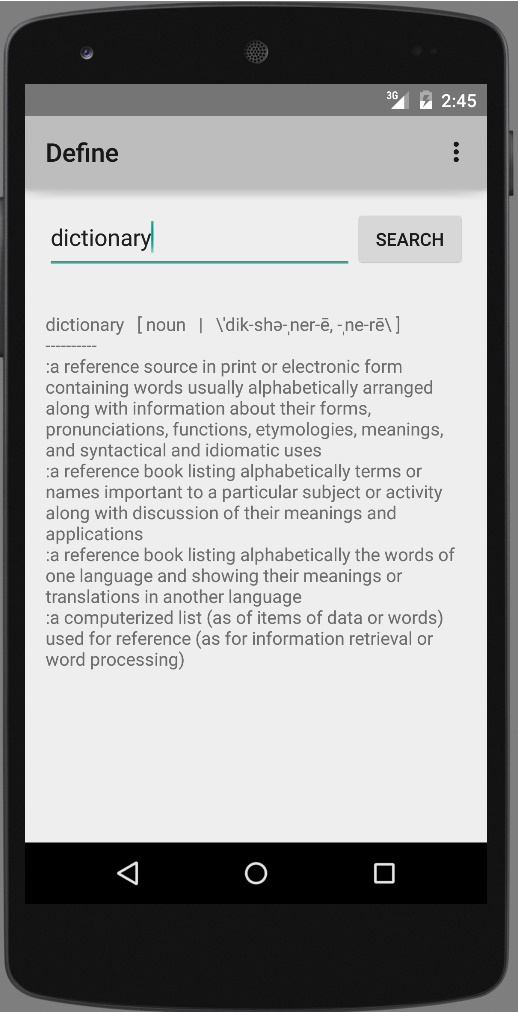
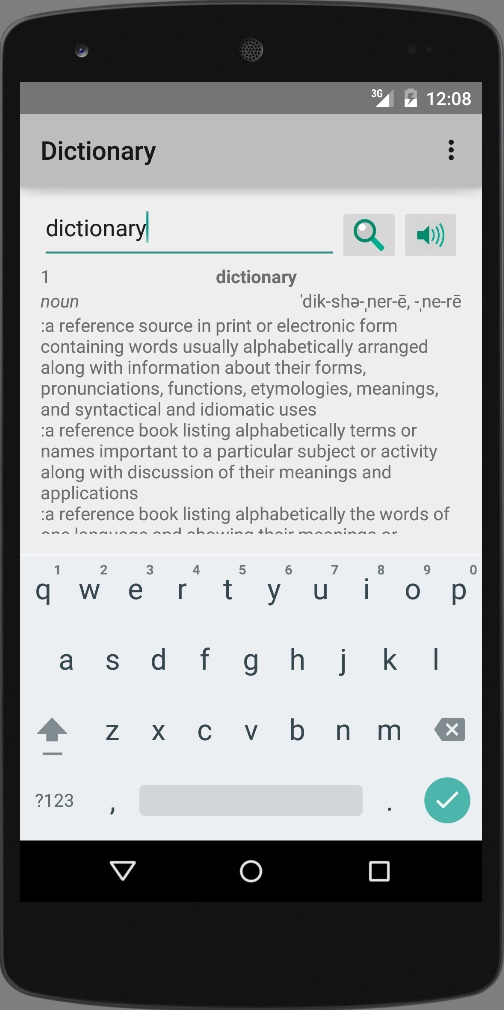
updated android dictionary project

diff --git a/index.html b/index.html
@@ -399,7 +399,7 @@
                             <hr class="star-primary">
                             <img src="img/portfolio/androidDictionary.jpg" class="img-responsive img-centered" alt="">
                             <p>
-                                An Android version of the command-line dictionary. I plan on adding quite a bit to this.
+                                A continuation of my dictionary project. An android version with more features.
                             </p>
                             <!-- <ul class="list-inline item-details">
                                 <li>Client:
